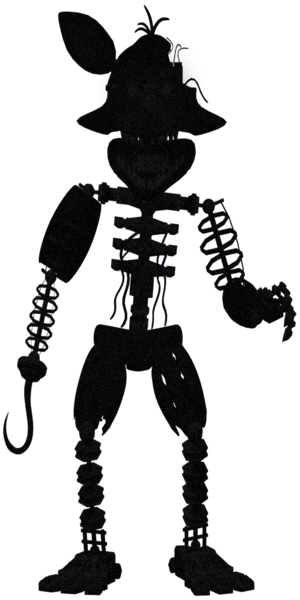
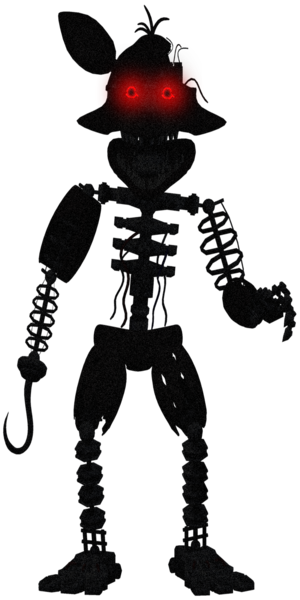
Night 4 Changelog

Changed region(s): [[0.36, 0.09, 0.66, 0.21]]

diff --git a/night4.py b/night4.py
@@ -25,13 +25,11 @@ vhs_images = [pygame.image.load('vhs/vhs1.jpg'),
 vhs_effect = Animation(vhs_images, time_interval=10)
 ambience = pygame.mixer.Sound('sounds/ambience_night4.mp3')
 pygame.mixer.Channel(0).play(ambience)
+breaker = pygame.image.load('breaker.jpg')
 
 foxy_count, foxy_state = 2000, False
-foxy_x, foxy_y = 1151, 359
-foxy_moves = [pygame.image.load('gifs/old_foxy/old_foxy1.png'),
-              pygame.image.load('gifs/old_foxy/old_foxy2.png'),
-              pygame.image.load('gifs/old_foxy/old_foxy3.png')]
-foxy_moving = Animation(foxy_moves, time_interval=5)
+foxy_moves = pygame.image.load('gifs/old_foxy/old_foxy1.png')
+
 
 def foxy_death():
     scream = pygame.mixer.Sound('sounds/jumpscares/old_foxy_jumpscare.mp3')
@@ -53,9 +51,22 @@ def foxy_move():
         pygame.mixer.Channel(2).set_volume(0.3)
         pygame.mixer.Channel(2).play(foxy_poet)
     if 0 < foxy_count < 800:
-        foxy_moving.change(0.2)
-        screen.blit(foxy_moving.image, (foxy_x, foxy_y))
+        screen.blit(foxy_moves, (1159, 359))
     if foxy_count == 0 and foxy_state is True:
+        foxy_death()
+
+
+def breaking():
+    global foxy_count, foxy_state
+    flash = pygame.mixer.Sound('sounds/flash.mp3')
+    pygame.mixer.Channel(2).play(flash)
+    screen.fill((255, 255, 255))
+    pygame.display.update()
+    pygame.time.delay(100)
+    if foxy_state is True:
+        foxy_state = False
+        foxy_count = 2000
+    else:
         foxy_death()
 
 
@@ -65,6 +76,8 @@ while True:
             sys.exit()
         if event.type == pygame.MOUSEBUTTONDOWN and event.button == pygame.BUTTON_LEFT:
             print(event.pos)
+            if event.pos[0] in range(940, 975) and event.pos[1] in range(633, 635):
+                breaking()
         if event.type == pygame.KEYDOWN and event.key == pygame.K_w:
             scream = pygame.mixer.Sound('sounds/jumpscares/old_freddy_jumpscare.mp3')
             pygame.mixer.Channel(0).play(scream)
@@ -107,5 +120,6 @@ while True:
     clock.tick(60)
     vhs_effect.change(0.7)
     screen.blit(vhs_effect.image, (0, 0))
+    screen.blit(breaker, (935, 610))
     foxy_move()
     pygame.display.update()
